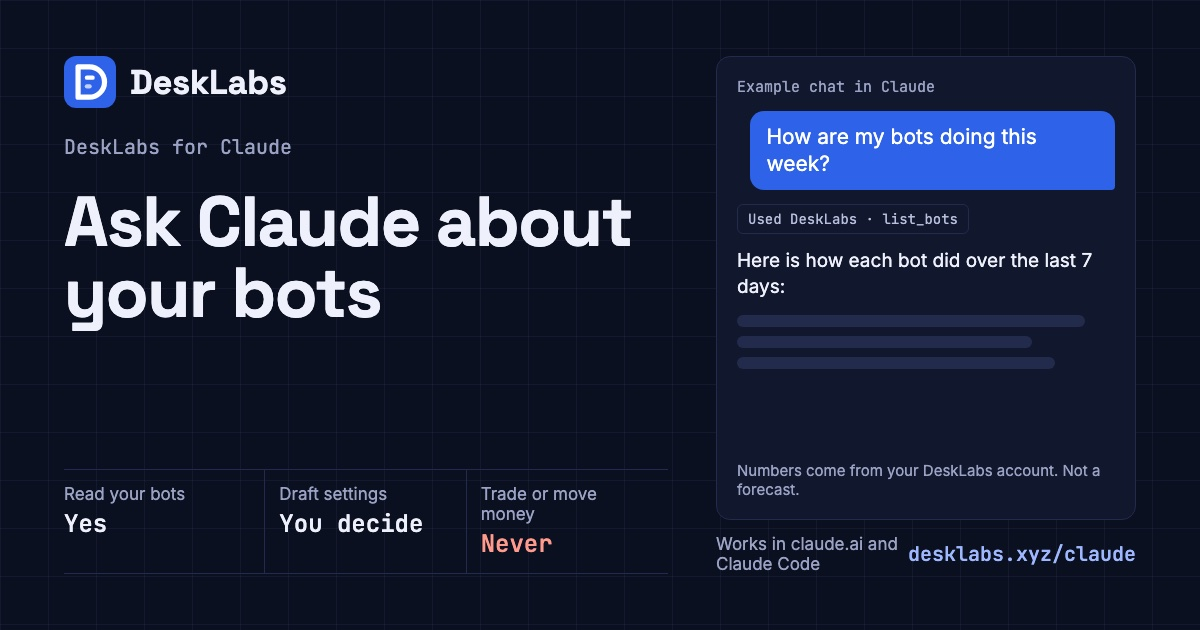
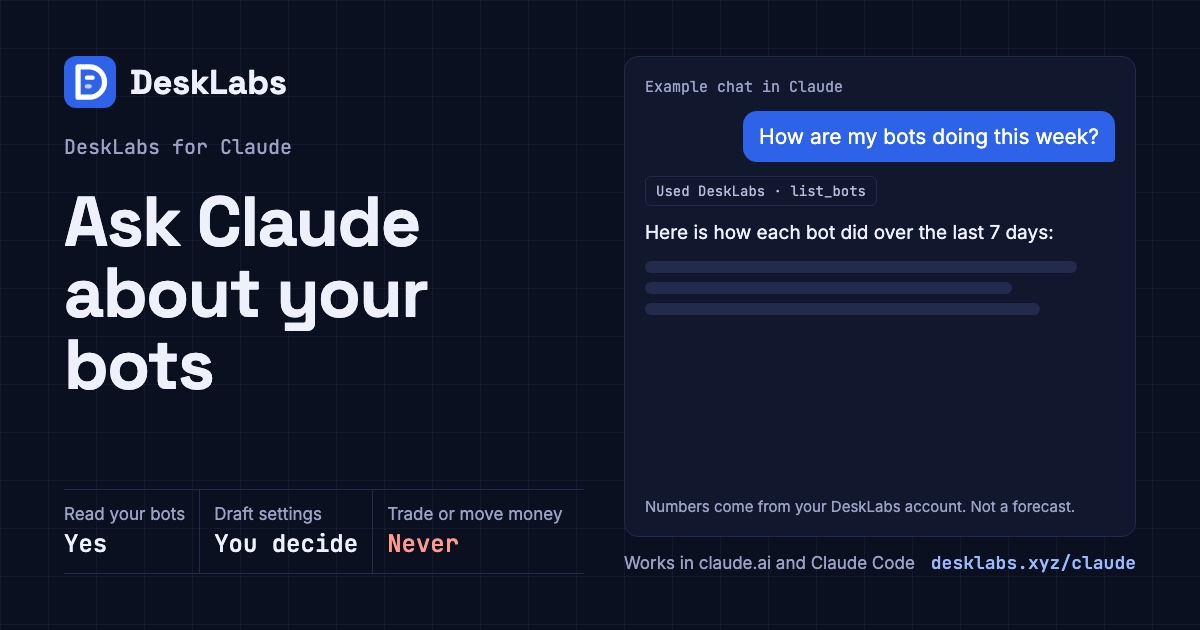
fix(web): share images without wrapped labels; tab title and description match the share copy
Re-render og/desklabs.jpg and og/claude.jpg so no label wraps: labels and
footer lines are nowrap, stat columns size to their content, the outer gap
is 40 px, the right column is wider and the footer URL is 18 px. Copy is
unchanged; labels stay 17 px or larger, margins 64 px left/right and at
least 56 px top/bottom.

/ and /claude now use the approved share title and description for the tab
title and meta description too, and the unused landing / claudeGuide
metaTitle and metaDescription keys are removed.

Claude-Session: https://claude.ai/code/session_0182DcBLiS1jg1khhEoN3NJu

diff --git a/apps/web/src/app/page.tsx b/apps/web/src/app/page.tsx
@@ -19,11 +19,13 @@ export async function generateMetadata(): Promise<Metadata> {
   if (await signedIn()) return {};
   const t = await getTranslations("landing");
   const brand = (await getTranslations("common"))("brand");
+  // Tiêu đề tab, meta description và câu chữ khi chia sẻ link dùng chung một bộ (DEC-TBD-share-images).
+  const title = t("shareTitle", { brand });
+  const description = t("shareDescription");
   return {
-    title: t("metaTitle", { brand }),
-    description: t("metaDescription"),
-    // Câu chữ khi chia sẻ link (DEC-TBD-share-images) khác tiêu đề tab.
-    ...shareMetadata("landing", t("shareTitle", { brand }), t("shareDescription")),
+    title,
+    description,
+    ...shareMetadata("landing", title, description),
     robots: { index: true, follow: true },
   };
 }

diff --git a/apps/web/src/app/claude/page.tsx b/apps/web/src/app/claude/page.tsx
@@ -13,12 +13,10 @@ export const dynamic = "force-dynamic";
 
 export async function generateMetadata(): Promise<Metadata> {
   const t = await getTranslations("claudeGuide");
-  return {
-    title: t("metaTitle"),
-    description: t("metaDescription"),
-    // Ảnh share riêng của /claude (DEC-TBD-share-images).
-    ...shareMetadata("claude", t("shareTitle"), t("shareDescription")),
-  };
+  // Tiêu đề tab, meta description và câu chữ khi chia sẻ link dùng chung một bộ; ảnh share riêng (DEC-TBD-share-images).
+  const title = t("shareTitle");
+  const description = t("shareDescription");
+  return { title, description, ...shareMetadata("claude", title, description) };
 }
 
 export default async function Page() {

diff --git a/e2e/flows/tests/p11-public.spec.ts b/e2e/flows/tests/p11-public.spec.ts
@@ -32,7 +32,7 @@ test("public pages pass axe, only the landing is indexable, 404 has DRIFT chrome
   expect(problems).toEqual([]);
 
   await page.goto("/");
-  await expect(page).toHaveTitle("DeskLabs · Automated trading strategies on SoDEX");
+  await expect(page).toHaveTitle("DeskLabs · Volume on SoDEX, built mostly with maker orders");
   await expect(page.locator('meta[name="robots"]')).toHaveAttribute("content", /^index/);
   await expect(page.locator('meta[property="og:image"]')).toHaveCount(1);
   await page.goto("/risk-disclosure");

diff --git a/docs/DECISIONS.md b/docs/DECISIONS.md
@@ -293,4 +293,4 @@
 | DEC-278 | 2026-11-16 | **`mm_market_hourly` giữ 90 ngày thay vì 48 giờ (người dùng duyệt plan "bước 0", DevOps chốt; thay phần retention của DEC-227).** Mục đích: team Ops gom đủ số liệu theo giờ trong ngày (markout 30 s, spread) trên prod rồi mới quyết có tạm dừng bot ở giờ biến động không. Mỗi market một dòng / giờ (top 30 market Perps + market có bot MM), 90 ngày ≈ 65K dòng. `mid_1s` vẫn giữ 48 giờ như DEC-227 (bảng lớn, chỉ D2 dùng). Lưu thô `mm-raw` (DEC-228) vẫn 48 giờ. Các truy vấn đọc bảng này đều đã chặn theo thời gian (api: 24 giờ gần nhất). | `apps/marketdata/src/mm-cost-store.ts` (`MM_KEEP_MS`, `MID_KEEP_MS`) |
 | DEC-279 | 2026-11-16 | **Cột Result của Decisions từ lệnh thật và phân loại lệnh bị từ chối (P1 nhóm 1c: BD-02 phần dữ liệu, BD-05). DevOps chốt câu chữ và phân loại theo ủy quyền.** (1) Engine gắn `payload.orders` (clOrdID) vào event quyết định ghi cùng bước chiến lược với lệnh đặt. **Giới hạn:** mọi lệnh của bước được gắn vào mọi quyết định ghi trong bước đó (chiến lược không cho biết action nào sinh lệnh nào; thứ tự log / place khác nhau giữa các chiến lược). (2) Kết quả gộp, tính trên các lệnh tìm thấy so với số lệnh quyết định đã đặt: có lệnh `unknown` → "Unknown" (có thể đã khớp, quy tắc 1.7 / 1.8); "Filled" chỉ khi tìm thấy đủ lệnh và mọi lệnh khớp đủ, còn lại "Partially filled" (chữ của trạng thái lệnh trong app); chưa khớp gì thì Open → Cancelled → Rejected → Not placed; không tìm thấy lệnh nào → để trống. (3) Lệnh bị từ chối: `PostOnly` (sẽ khớp ngay) và `SELF_TRADE_BLOCKED` là bình thường; `RISK_PER_TRADE` (giới hạn rủi ro của DeskLabs chặn, không tới SoDEX) đếm riêng "{n} blocked by your risk limits"; mọi mã khác (kể cả trống / mới) là "refused for other reasons". "Recent errors" không còn ghi "No errors." khi có lệnh bị SoDEX từ chối thật hoặc bị giới hạn rủi ro chặn trong 24 giờ. Link tới lệnh và gộp các lần đặt lại: PR riêng theo `docs/mockups/bd02-decisions`. | `apps/engine/src/engine.ts`, `packages/shared/src/api/bots.ts`, `apps/api/src/modules/bots/service.ts`, `apps/web/src/features/bots` |
 | DEC-280 | 2026-11-16 | **Font mới tự host bằng gói npm (DevOps chốt theo ủy quyền về dependency tooling; quyết định font của người dùng ở PR #166).** Thêm `@fontsource-variable/space-grotesk`, `@fontsource-variable/inter`, `@fontsource-variable/jetbrains-mono` (pin 5.3.0, OFL-1.1), nạp qua `next/font/local` như Plus Jakarta Sans: chỉ file subset latin, bản variable, giới hạn weight dùng tới (Space Grotesk 500–700, Inter 400–600, JetBrains Mono 400–500). Build không tải Google Fonts, CSP `font-src 'self'` giữ nguyên. Bước 1: chỉ module của landing và trang MCP import (`features/public/landing-fonts.ts`), nên app không nạp. Bước 2 (PR riêng) dùng lại đúng các gói này cho cả app. Landing: token màu riêng `l-*` trong `globals.css`, chỉ có nghĩa bên trong `.landing`; mặc định sáng, `data-theme="dark"` khi người dùng bấm nút đổi theme, nhớ bằng localStorage (`desklabs.landing.theme`, bọc try/catch). | `apps/web/src/features/public/landing-fonts.ts`, `apps/web/src/app/globals.css`, `docs/ARCHITECTURE.md` mục 4 |
-| DEC-TBD-share-images | 2026-11-16 | **Ảnh share mới (Open Graph / X card) cho landing và `/claude` (người dùng chọn bản tối; câu chữ meta DevOps duyệt; thay phần "ảnh share không đổi" của DEC-277).** Nguồn: `docs/mockups/share-images/` (canvas "DeskLabs share images"). Ship theme **tối** của `Main.dc.html` thành `apps/web/public/og/desklabs.jpg` (thay ảnh cũ) và của `OgClaude.dc.html` thành `apps/web/public/og/claude.jpg` (mới); 1200×630 JPG, dưới 300 KB, lề an toàn 64 px. **Không có số live trên ảnh** (volume, CPM, PnL, mức phí): nền tảng cache ảnh rất lâu; order book và biểu đồ trên ảnh là ví dụ có nhãn "example". `lib/share-image.ts` giữ hai mục `landing` (mặc định, cả root layout) và `claude`, kèm alt text đã duyệt; og/twitter title + description lấy từ `landing.shareTitle/shareDescription` và `claudeGuide.shareTitle/shareDescription` (tiêu đề tab giữ `metaTitle`). Proxy vẫn bỏ qua `og/` nên ảnh công khai (DEC-156). **Sau deploy:** làm mới cache Facebook (Sharing Debugger) và Telegram (@WebpageBot); X tự lấy ảnh mới trong khoảng một ngày. | `apps/web/src/lib/share-image.ts`, `apps/web/src/app/{layout,page,claude/page}.tsx`, `apps/web/public/og/` |
+| DEC-TBD-share-images | 2026-11-16 | **Ảnh share mới (Open Graph / X card) cho landing và `/claude` (người dùng chọn bản tối; câu chữ meta DevOps duyệt; thay phần "ảnh share không đổi" của DEC-277).** Nguồn: `docs/mockups/share-images/` (canvas "DeskLabs share images"). Ship theme **tối** của `Main.dc.html` thành `apps/web/public/og/desklabs.jpg` (thay ảnh cũ) và của `OgClaude.dc.html` thành `apps/web/public/og/claude.jpg` (mới); 1200×630 JPG, dưới 300 KB, lề trái / phải 64 px, trên / dưới ≥ 56 px; không nhãn nào xuống dòng (chỉ chỉnh cỡ chữ / độ rộng cột, không đổi câu chữ). **Không có số live trên ảnh** (volume, CPM, PnL, mức phí): nền tảng cache ảnh rất lâu; order book và biểu đồ trên ảnh là ví dụ có nhãn "example". `lib/share-image.ts` giữ hai mục `landing` (mặc định, cả root layout) và `claude`, kèm alt text đã duyệt; tiêu đề tab, meta description và og/twitter title + description dùng chung `landing.shareTitle/shareDescription` và `claudeGuide.shareTitle/shareDescription` (bỏ `metaTitle` / `metaDescription` cũ của hai trang này). Proxy vẫn bỏ qua `og/` nên ảnh công khai (DEC-156). **Sau deploy:** làm mới cache Facebook (Sharing Debugger) và Telegram (@WebpageBot); X tự lấy ảnh mới trong khoảng một ngày. | `apps/web/src/lib/share-image.ts`, `apps/web/src/app/{layout,page,claude/page}.tsx`, `apps/web/public/og/` |
